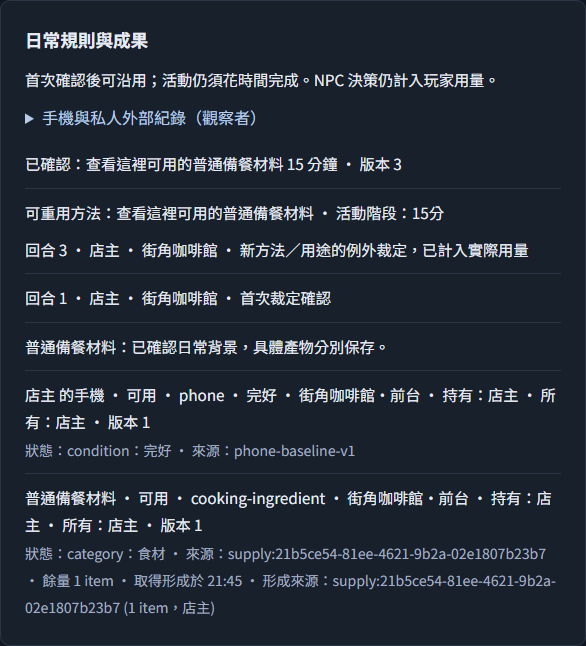
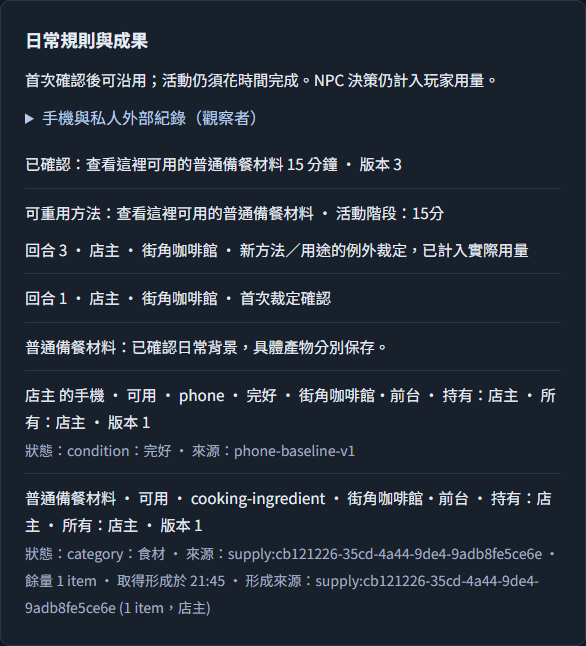
fix: prioritize usable finite sources and finalize ordinary discovery evidence (#209)

Changed region(s): [[0.0307, 0.8359, 0.9522, 0.9598]]

diff --git a/lib/routine-world-programs.ts b/lib/routine-world-programs.ts
@@ -40,7 +40,7 @@ function bindRoles(w:World,c:Character,action:Action,program:RoutineWorldProgram
   const discovering=(program.branches||[{stages:program.stages}]).some(path=>path.stages.some(phase=>phase.effects.some(effect=>effect.kind==='discover'&&effect.supplyIds.includes('$'+binding.role))));
   const explicit=(w.supplies||[]).filter(supply=>!supply.background&&supply.region===regionOf(c)&&(discovering||supply.knownTo.includes(c.id))&&(binding.sourceRole==='material'?routineMaterialSourceMatches(supply,binding):supply.kind==='utensil'||supply.kind===bg.kind));
   if(explicit.length){
-   const actual=explicit.find(supply=>stateMatches(supply.initialState,binding)&&(discovering||supply.remaining>0&&hasObjectPermission(supply,c.id)));
+   const actual=explicit.find(supply=>stateMatches(supply.initialState,binding)&&!supply.pending&&(supply.availableAt===undefined||supply.availableAt<=w.minute)&&(discovering||supply.remaining>0&&hasObjectPermission(supply,c.id)));
    report(binding,{check:'finite-background-source',candidates:explicit.map(source=>({id:source.id,remaining:source.remaining})),selected:actual?.id??null});
    if(!actual)throw new RoutineUnavailable('目前已知的有限材料或器具不能使用，尚未完成；日常背景不會補回。');
    return actual;
@@ -96,8 +96,8 @@ function bindRoles(w:World,c:Character,action:Action,program:RoutineWorldProgram
     return;
    }report(binding,{check:'bound',id:actor.id});rememberSource(binding,actor.id);refs.set(binding.role,actor.id);
   }else{
-   let supply=w.supplies?.find(supply=>{
-    const checks:{name:string;run:()=>boolean}[]=[{name:'pending',run:()=>!supply.pending},{name:'remaining',run:()=>supply.remaining>0},{name:'location',run:()=>supply.region===regionOf(c)},{name:'known',run:()=>supply.knownTo.includes(c.id)||canContactRoutineBackground(w,c,{ruleId:rule.id,operation:program.operation,refs:[{role:binding.role,id:supply.id}]},supply.id)},{name:'permission',run:()=>binding.access==='physical'||hasObjectPermission(supply,c.id)},{name:'target',run:()=>binding.select!=='target'||supply.id===action.target},{name:'kind',run:()=>!binding.kind||supply.kind===binding.kind},{name:'label',run:()=>!binding.label||supply.label.includes(binding.label)},{name:'material',run:()=>routineMaterialSourceMatches(supply,binding)},{name:'ordinary-scope',run:()=>!supply.background||routineOrdinarySourceMatches(supply,binding)},{name:'state',run:()=>stateMatches(supply.initialState,binding)}];
+   let supply=[...(w.supplies||[])].sort((left,right)=>Number(right.id===action.target)-Number(left.id===action.target)||Number(!!left.background)-Number(!!right.background)).find(supply=>{
+    const checks:{name:string;run:()=>boolean}[]=[{name:'pending',run:()=>!supply.pending},{name:'available',run:()=>supply.availableAt===undefined||supply.availableAt<=w.minute},{name:'remaining',run:()=>supply.remaining>0},{name:'location',run:()=>supply.region===regionOf(c)},{name:'known',run:()=>supply.knownTo.includes(c.id)||canContactRoutineBackground(w,c,{ruleId:rule.id,operation:program.operation,refs:[{role:binding.role,id:supply.id}]},supply.id)},{name:'permission',run:()=>binding.access==='physical'||hasObjectPermission(supply,c.id)},{name:'target',run:()=>binding.select!=='target'||supply.id===action.target},{name:'kind',run:()=>!binding.kind||supply.kind===binding.kind},{name:'label',run:()=>!binding.label||supply.label.includes(binding.label)},{name:'material',run:()=>routineMaterialSourceMatches(supply,binding)},{name:'ordinary-scope',run:()=>!supply.background||routineOrdinarySourceMatches(supply,binding)},{name:'state',run:()=>stateMatches(supply.initialState,binding)}];
     for(const check of checks){const passed=check.run();report(binding,{check:check.name,id:supply.id,passed});if(!passed)return false;}return true;
    });
    if(supply?.background&&routineBackgroundHasFiniteConflict(w,c,supply,{ruleId:rule.id,operation:program.operation,refs:[{role:binding.role,id:supply.id}]}))throw new RoutineUnavailable('普通來源受到當前適用的有限約束，不能繼續使用。');

diff --git a/components/routine-status.tsx b/components/routine-status.tsx
@@ -15,7 +15,7 @@ export function RoutineStatus({world}:{world:World}) {
  {world.characters.filter(c=>c.plan).map(c=><p key={c.id}>{c.name}：{c.plan!.timeIntent?.kind==='open-ended'?'自行選定時段':'完成目標安排'} {c.plan!.until-c.plan!.startedAt} 分鐘，尚餘 {Math.max(0,c.plan!.until-world.minute)} 分鐘。</p>)}
  {world.characters.filter(c=>c.pausedActivity).map(c=><p key={'paused:'+c.id}>{c.name}：暫停中 · {c.pausedActivity!.plan.action.content||c.pausedActivity!.plan.action.type} · 已投入 {c.pausedActivity!.elapsedMinutes} 分鐘，尚餘 {c.pausedActivity!.remainingMinutes} 分鐘；等待自主復工或放棄。</p>)}
  {(world.routineAudit||[]).slice(-8).reverse().map((item,index)=><p key={index}>回合 {item.turn+1} · {person(item.actorId)}{item.location?` · ${place(item.location)}`:''} · {item.result==='approved'?`首次裁定確認${item.reason?`，當前受阻：${item.reason}`:''}`:item.result==='confirmed'?'當地日常背景確認，已計入實際用量':item.result==='exception'?'新方法／用途的例外裁定，已計入實際用量':item.result==='blocked'?`規則受阻，無新增裁定：${item.reason||'當前條件不成立'}`:`沿用日常規則，無新增裁定${item.reason?`：${item.reason}`:''}`}</p>)}
- {(world.supplies||[]).filter(s=>s.background).map(s=><p key={s.id}>{s.label}：已確認日常背景，具體產物分別保存。</p>)}
+ {(world.supplies||[]).filter(s=>s.background).map(s=><p key={s.id}>{s.label}：{s.pending?'背景待活動確認，尚未成立。':'已確認日常背景，具體產物分別保存。'}</p>)}
  {(world.supplies||[]).filter(s=>!s.background).map(s=><p key={s.id}>{s.label}：{s.pending?'尚在準備，未形成成品':`有限供應 ${s.remaining}`}  · {place(s.region)}</p>)}
  {(world.objects||[]).map(o=><p key={o.id}>{o.label} · {o.endedByFormation&&o.lifecycle==='consumed'?'原物已分拆／轉化':states[o.lifecycle]||o.lifecycle} · {states[o.state.contents]||states[o.state.beverage]||states[o.kind]||o.kind}{o.state.condition?` · ${states[o.state.condition]||o.state.condition}`:''} · {place(o.region)} · 持有：{person(o.holder)} · 所有：{o.coOwners?.length?o.coOwners.map(person).join('、'):person(o.owner)}{o.coOwners&&o.coOwners.length>1?'（共同來源權利）':''} · 版本 {o.revision}<br/><small>狀態：{Object.entries(o.state).map(([key,value])=>`${states[key]||key}：${states[value]||value}`).join(' · ')} · 來源：{o.source}{o.quantity?` · 餘量 ${o.quantity.amount} ${o.quantity.unit}`:''}{o.formation?` · ${formationLabels[o.formation.operation]||o.formation.operation}於 ${timeLabel(o.formation.at)}`:''}{o.sources?.length?` · 形成來源：${o.sources.map(source=>`${source.id} (${source.amount} ${source.unit}，${person(source.owner)})`).join('、')}`:''}{o.physicalHistory?.length?<span> · 最近物理操作：{o.physicalHistory.at(-1)!.operation}（事前{o.physicalHistory.at(-1)!.permitted?'已獲許可':'未獲許可'}） · 未獲許可累計 {o.unpermittedCount||0} 次{o.physicalHistoryDropped?` · ${o.physicalHistoryDropped} 筆舊細節已省略`:null}</span>:null}</small></p>)}
  {Object.entries(world.scene?.external||{}).map(([region,bag])=><p key={region}>環境 · {place(region)} · {Object.entries(bag.state).map(([key,value])=>`${key}：${value}`).join('、')} · 版本 {bag.revision}</p>)}

diff --git a/components/acceptance-scene.tsx b/components/acceptance-scene.tsx
@@ -32,7 +32,7 @@ export function AcceptanceSceneStatus({ world }: { world: World }) {
     <details><summary>供應、物件與活動階段</summary>
       <p className="hint">以下只顯示目前保存的結果。台詞不代表物件已變更；未到時間的階段也不算完成。</p>
       <div className="acceptance-state-grid">
-        {(world.supplies || []).map(supply => <article key={supply.id} aria-label={supply.label + '供應'}><h3>{supply.label}</h3><p>{supply.background?'已確認日常背景':`剩餘 ${supply.remaining} 份 · 不自動補貨`}</p><p>可使用：{supply.allowedTo.map(person).join('、') || '尚未授權'}</p><small>識別：{supply.id}</small></article>)}
+        {(world.supplies || []).map(supply => <article key={supply.id} aria-label={supply.label + '供應'}><h3>{supply.label}</h3><p>{supply.background?(supply.pending?'背景待活動確認，尚未成立':'已確認日常背景'):`剩餘 ${supply.remaining} 份 · 不自動補貨`}</p><p>可使用：{supply.allowedTo.map(person).join('、') || '尚未授權'}</p><small>識別：{supply.id}</small></article>)}
         {(world.objects || []).map(object => <article key={object.id} aria-label={object.label + '物件'}><h3>{object.label}</h3><p>狀態：{({ active: '可用', consumed: '已消耗', destroyed: '已損毀' })[object.lifecycle]}</p><p>持有：{person(object.holder)} · 所有：{person(object.owner)}</p><p>位置：{object.region}</p>{Object.entries(object.state).map(([key, value]) => <p key={key}>{stateLabel[key] || key}：{stateLabel[value] || value}</p>)}<p>可使用：{object.allowedTo.map(person).join('、') || '尚未授權'}</p><small>識別：{object.id} · 版本 {object.revision}</small></article>)}
       </div>
       <h3>分階段活動</h3>

diff --git a/docs/verification/routine-discovery-209-2026-10-28.md b/docs/verification/routine-discovery-209-2026-10-28.md
@@ -21,22 +21,26 @@
 | 身份／消耗續用 | 舊 `source:1` 已消耗保持；新查找／成功重送不改其狀態，後續只形成 `source:2`，sequence2→3；next input只有active新物件 |
 | 查找可選，已有普通方法可直接準備 | 漏看後選真正既有 `cafePrograms.food`（background.initialState=[]，既有來源含category=食材），原實作被未知來源阻擋（red）；修正在真正materialize接觸同來源，原料實際consumed、meal實際active，原owner／allowedTo不變，0追加裁定；next messages有meal |
 | 已知／未知來源一律尊重有限約束 | 搜索成功已知ordinary後新增相同scope的未知有限限制，既有food免費blocked、自由materialize亦拒絕；知情不會繞過世界限制，原料不物化／不增sequence |
+| 真正不同方法的新機會 | A首次miss、同A同義新rule不重骰；世界確認B不同operation後，同canonical source新機會1骰成功，仍只有1來源，next input可用 |
+| 稀疏方法背景不繞過原權利 | 真正food方法bg[]遇原owner來源的category額外真狀態，Cass無權時維持1來源／0物件／0裁定，不另造Cass私有供應 |
+| 合法有限來源優先 | ordinary在前、耗盡／別人持有權利／未到可用時間的finite在中、合法finite在後；正常場所與明確target兩路均實際用合法finite成餐，不扣其他來源、不新增裁定 |
 | 任意未知來源拿取反例 | 相同漏看後，沒有server routineSourceScope的自由materialize仍502；knownTo／sequence保持，不因來源已成立就給任意候選權限 |
 
 ## 既有畫面及用量
 
-最終產品重跑 `tooling/verification/browser-routine-discovery-209.mjs`，真實 WorldApp → 世界 API → SQLite → 下一輪實際 messages：4次既有「下一回合」、4 NPC＋2裁定＋1感知骰，0真實付費呼叫。來源確認、感知與後續物化分開；保存重讀及查找／最後操作的原ID重送均0新增派送。1280px、390px無水平溢出／pageerror，四張圖已目視。
+最終產品重跑 `tooling/verification/browser-routine-discovery-209.mjs`，真實 WorldApp → 世界 API → SQLite → 下一輪實際 messages：4次既有「下一回合」、4 NPC＋2裁定＋1感知骰，0真實付費呼叫。來源確認、感知與後續物化分開；保存重讀及查找／最後操作的原ID重送均0新增派送。1280px、390px無水平溢出／pageerror，另以 `browser-routine-discovery-pending-209.mjs` 驗證30分鐘首輪僅pending、0知情／0骰，既有畫面不冒稱已成立；主要四張圖及另一次尚pending核對圖已目視。
 
+- [30分鐘查找尚pending（1 NPC＋1裁定、0骰，尚未成立）](assets/routine-discovery-209/pending-background.png)
 - [來源成立但尚無實物](assets/routine-discovery-209/confirmed-source.png)
 - [實際供應感知](assets/routine-discovery-209/source-perception.png)
 - [後續材料實物及同來源](assets/routine-discovery-209/acquired-material.png)
 - [390px既有分析](assets/routine-discovery-209/mobile-analysis.png)
 - [篩選證據、派送計數與容量](assets/routine-discovery-209/evidence.json)
 
-代表資料：來源472 bytes、短期經歷3332 bytes、receipts3138 bytes、NPC輸入最大9899 bytes。實際request與authority容量以 evidence.json 的最後重跑值為準；fixture tokens 不是正式模型費用。
+代表資料：來源472 bytes、短期經歷3332 bytes、receipts3591 bytes、NPC輸入最大9899 bytes。實際request與authority容量以 evidence.json 的最後重跑值為準；fixture tokens 不是正式模型費用。
 
 ## 驗證與界線
 
-本票14條 API 案例覆蓋以上完整路徑（含參數對照）；核心修正各有獨立red→green。必要跨模組回歸包含 #206來源範圍、#208探索、替代食物、world changes、sharing及verified obstacles；最終計數於交付提交後的執行紀錄核對。Typecheck、變更檔ESLint、diffcheck依最終產品執行。
+本票17條 API 案例覆蓋以上完整路徑（含參數對照）；核心修正各有獨立red→green。承接 #208 已確認方法修正後，相關跨模組 **111/111** 通過（當時本票16條，另含方法4條、#206、#208、替代食物、world changes、sharing、verified obstacles）。最後有限來源優先排序反例 red→green 後，針對本票17條＋#206來源11條＋替代食物8條再驗 **36/36** 通過，0失敗／略過／取消。Typecheck、變更檔ESLint及diffcheck通過；完整全repo suite由 #210整合後統一執行，不將本票局部回歸稱作全repo測試。
 
 沒有新增SQL migration或無界canonical索引，來源≤512、規則≤32及既有感知／記憶／預算上限保持；新scope有版本且舊資料不補造，取消／原子性／回退見[工程契約](../design/routine-discovery.md)。同次世界裁定仍可能語義誤判普通／特殊範圍；本票不藉固定物品白名單取代它。固定回覆證明程式能力，不證明真實NPC已會自主接手需求；跨角色多輪閉環交由 #210、真實自主性交由 #211。未合併main、部署、推進或重置正式世界，未改／關閉 #205。

diff --git a/docs/design/routine-discovery.md b/docs/design/routine-discovery.md
@@ -6,9 +6,11 @@
 
 已知普通方法也能直接接觸已成立而尚未知悉 ID 的適用普通來源：只在 server routineSourceScope、當前 operator、當地可見、原權利、canonical用途／主題及有限約束成立時，可綁定其身份；真正 materialize 階段才承接接觸、knownTo 與實物。compile／候選綁定不提前知情。一般自由 materialize 未知來源仍拒絕，不讓漏看查找反而迫使已知方法先搜索成功。
 
+既有日常分析／驗收畫面對 pending 背景明示「背景待活動確認，尚未成立」，正式成立後才顯示已確認背景。
+
 成立來源與角色察覺分開：解除 pending 不扣 remaining、不增 sequence、不生成持有物件；正式提交後沿 #207／#208 感知，只有清晰觀察增加 knownTo。compile、分支／續做／恢復驗證使用 validateOnly，不感知或擲骰。相同來源、位置、感知條件的既有結果重用，漏看後換措辭也不重擲。
 
-新建來源保存 optional `background.scope={version:1,role,subject}`，值來自已驗證 binding 的 sourceRole／sourceSubject，不另建分類或 canonical 索引。確認新背景描述時，canonical 重用依區域、種類、來源用途／主題、完整初始狀態、逐鍵曝光、份量及 consumable 一致；顯示名稱與新 rule ID 不產生新來源。實際方法優先沿已成立來源綁定，方法只要求其必要 state subset；來源有額外真實狀態不會被新方法的空白 background 描述抹除或替換。多位 operator 先選已有許可來源；只有同一無權來源時，查找可辨識它但不授予許可，也不另造自己所有的替代供應。既有 owner／allowedTo／sequence 保持。
+新建來源保存 optional `background.scope={version:1,role,subject}`，值來自已驗證 binding 的 sourceRole／sourceSubject，不另建分類或 canonical 索引。canonical 重用依區域、種類及已確認來源用途／主題識別既存適用來源，再核對方法明示必要的 state subset；顯示名稱、新 rule ID 及 prospective background 空白初態不產生新來源。保留來源真實的額外狀態、份量、曝光與 consumable，不用新方法的背景描述重寫來源。無權使用既有適用來源時拒絕另造自己所有的替代供應。無指定時合法有限來源先於普通背景，選定時先經時間可用性、必要狀態、知情及權利篩選；明確 target 保持優先，不讓耗盡／未到時／無權來源誤擋另一合法來源。多位 operator 先選已有許可來源；只有同一無權來源時，查找可辨識它但不授予許可，也不另造自己所有的替代供應。既有 owner／allowedTo／sequence 保持。
 
 未知但適用的有限來源是世界權威限制，查找確認不以 knownTo 過濾它；可以發現該來源，但不補回耗盡，也不把其私有原因送入 NPC。真正 phase 再驗當前 operator 與本範圍限制，較晚出現的限制阻止待確認背景。已知／未知的已成立普通來源實際 materialize 也使用相同有限約束檢查；自由候選可由來源 optional scope 核對，舊來源缺 scope 時僅在已綁方法可知真正範圍，不猜全場所限制。用途／sourceSubject／kind 的純來源 predicate 由 `routine-materials` 共用，沿既有來源語義，不以所有 food 作整體限制。
 
